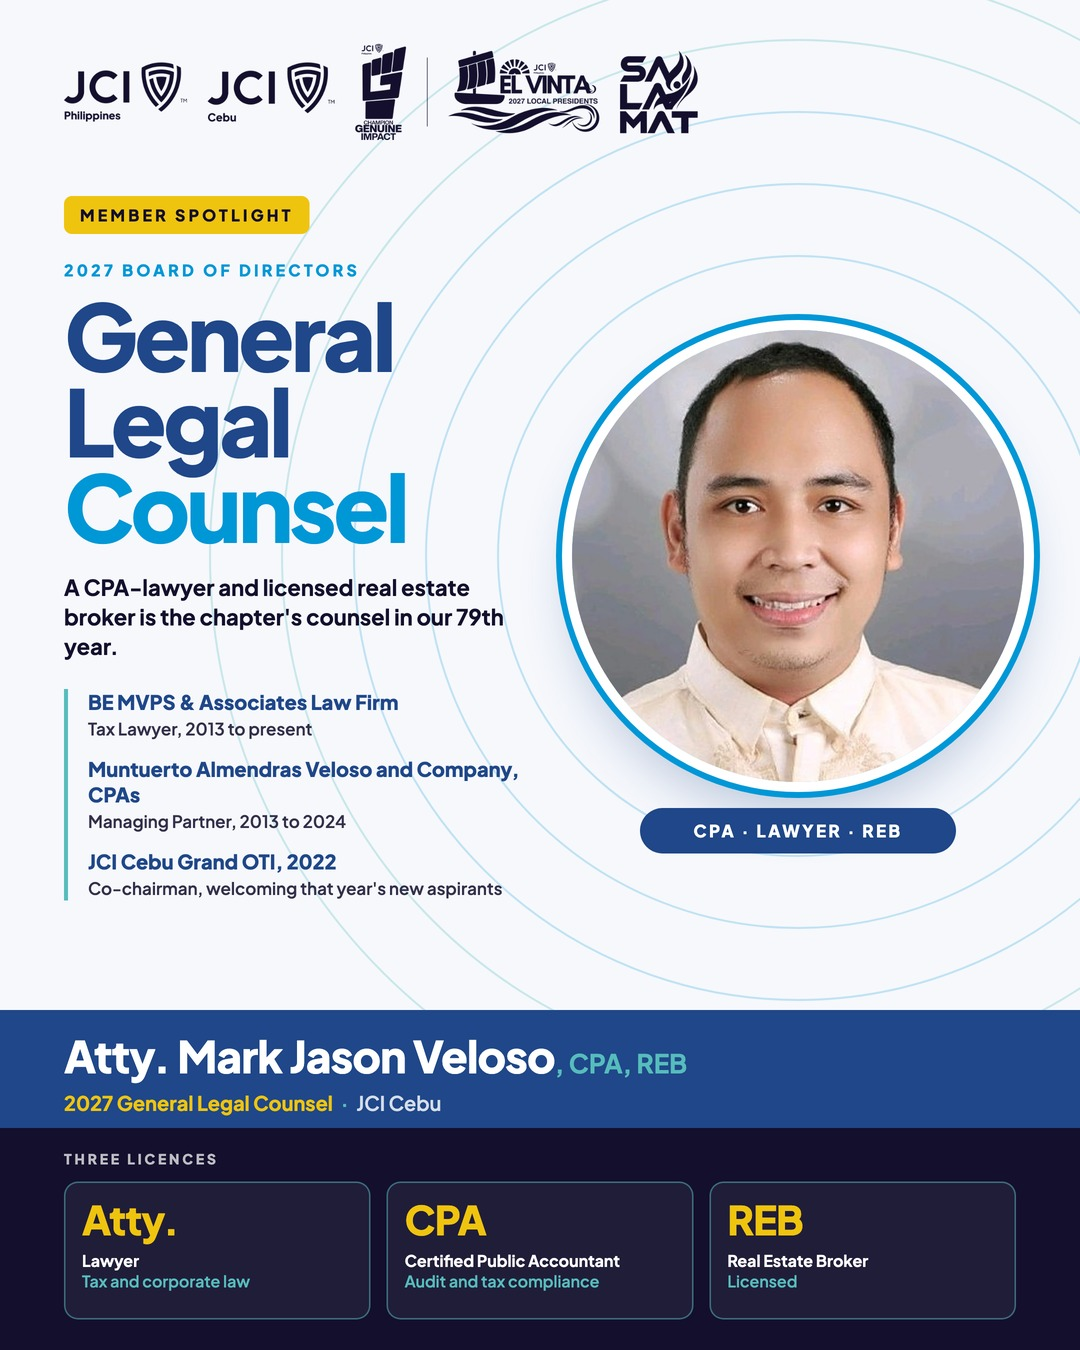
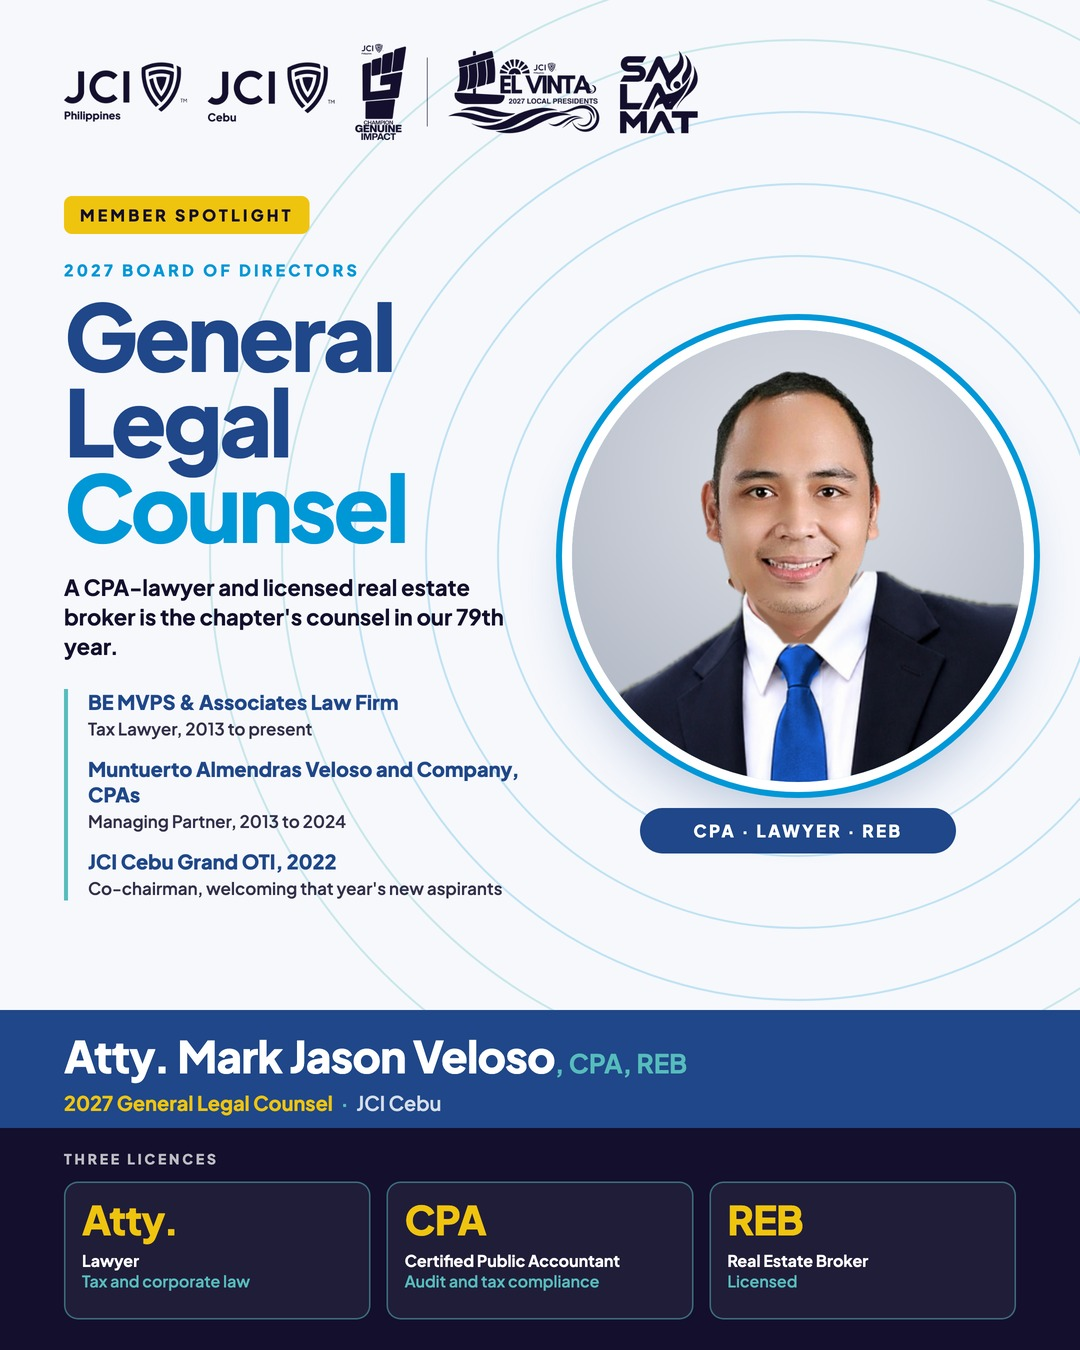
Atty. Mark Veloso spotlight: suit and blue tie version

Changed region(s): [[0.5194, 0.2489, 0.9472, 0.5911]]

diff --git a/index.html b/index.html
@@ -275,8 +275,8 @@ Congratulations, Pidot. JCI Cebu is proud of you.
   </div>
 </article>
 <article class="card" id="mark-veloso">
-  <a class="shot" href="img/jci-cebu-mark-veloso.jpg?v=1794991767" target="_blank" rel="noopener">
-    <img src="img/jci-cebu-mark-veloso.jpg?v=1794991767" alt="Spotlight pubmat for Atty. Mark Jason Veloso, CPA, REB" width="1080" height="1350" loading="lazy">
+  <a class="shot" href="img/jci-cebu-mark-veloso.jpg?v=1794992266" target="_blank" rel="noopener">
+    <img src="img/jci-cebu-mark-veloso.jpg?v=1794992266" alt="Spotlight pubmat for Atty. Mark Jason Veloso, CPA, REB" width="1080" height="1350" loading="lazy">
   </a>
   <div class="body">
     <div class="meta"><span class="st st-draft">draft</span></div>
@@ -284,7 +284,7 @@ Congratulations, Pidot. JCI Cebu is proud of you.
     <p class="role">2027 General Legal Counsel</p>
     
     <div class="actions">
-      <a class="btn primary" href="img/jci-cebu-mark-veloso.jpg?v=1794991767" download="jci-cebu-mark-veloso.jpg">Download image</a>
+      <a class="btn primary" href="img/jci-cebu-mark-veloso.jpg?v=1794992266" download="jci-cebu-mark-veloso.jpg">Download image</a>
       <button class="btn" data-copy="fb-5">Copy FB caption</button>
       <button class="btn" data-copy="ig-5">Copy IG caption</button>
     </div>
